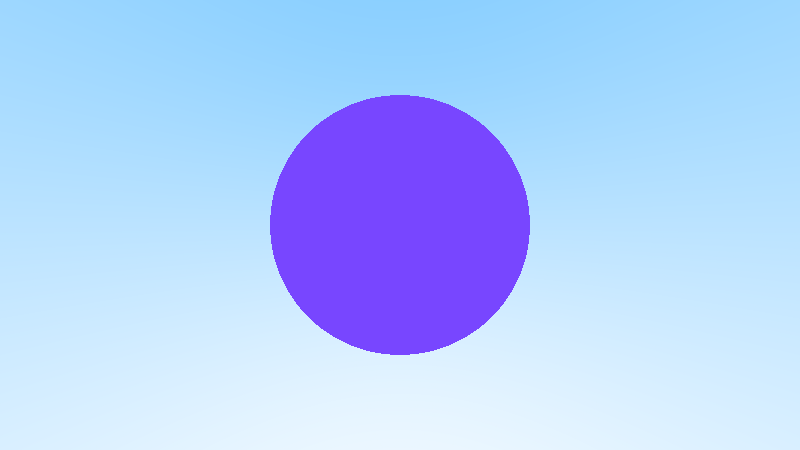
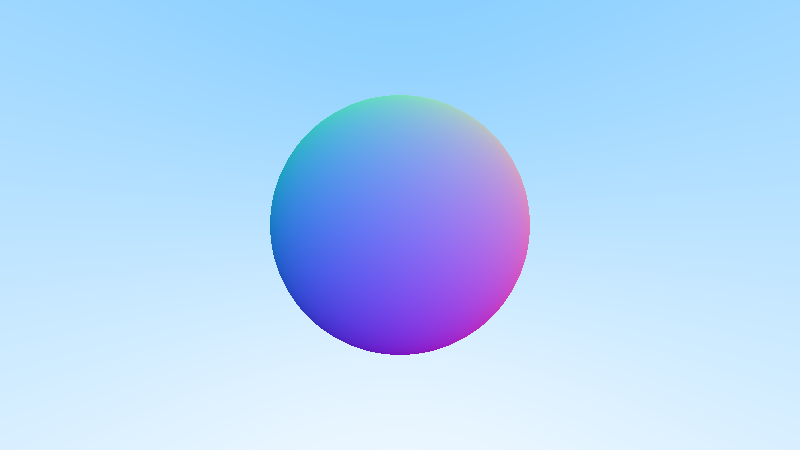
Hit record normal + starting on quad

Changed region(s): [[0.3125, 0.1867, 0.6875, 0.8089]]

diff --git a/src/shapes.rs b/src/shapes.rs
@@ -5,11 +5,12 @@ use crate::vector3::Vector3;
 pub struct HitRecord {
     pub t: f64,
     pub surface: Surface,
+    pub normal: Vector3,
 }
 
 impl HitRecord {
-    fn new(t: f64, surface: Surface) -> HitRecord {
-        HitRecord { t, surface }
+    fn new(t: f64, surface: Surface, normal: Vector3) -> HitRecord {
+        HitRecord { t, surface, normal }
     }
 }
 
@@ -60,15 +61,21 @@ impl Hittable for Sphere {
         let first_root = (-b - sqrt_d) / (2.0 * a);
         let second_root = (-b + sqrt_d) / (2.0 * a);
 
+        let solution: f64;
+
         if first_root < 0.0 && second_root < 0.0 {
-            None
+            return None;
         } else if first_root < 0.0 && second_root >= 0.0 {
-            Some(HitRecord::new(second_root, self.surface))
+            solution = second_root;
         } else if first_root >= 0.0 && second_root >= 0.0 {
-            Some(HitRecord::new(first_root, self.surface))
+            solution = first_root;
         } else {
-            None
+            return None;
         }
+
+        let normal = (ray.point_at(solution) - self.center).normalize();
+
+        Some(HitRecord::new(solution, self.surface, normal))
     }
 }
 
@@ -95,9 +102,9 @@ impl Quad {
     }
 }
 
-impl Hittable for Quad {
-    fn hit(&self, ray: &Ray) -> Option<HitRecord> {}
-}
+// impl Hittable for Quad {
+//     fn hit(&self, ray: &Ray) -> Option<HitRecord> {}
+// }
 
 #[cfg(test)]
 mod tests {
@@ -126,7 +133,8 @@ mod tests {
             sphere.hit(&ray),
             Some(HitRecord {
                 t: 4.0,
-                surface: Surface::default()
+                surface: Surface::default(),
+                normal: Vector3::new(0.0, 0.0, 1.0),
             })
         );
     }
@@ -140,7 +148,8 @@ mod tests {
             sphere.hit(&ray),
             Some(HitRecord {
                 t: 5.0,
-                surface: Surface::default()
+                surface: Surface::default(),
+                normal: Vector3::new(1.0, 0.0, 0.0)
             })
         );
     }
@@ -154,7 +163,8 @@ mod tests {
             sphere.hit(&ray),
             Some(HitRecord {
                 t: 6.0,
-                surface: Surface::default()
+                surface: Surface::default(),
+                normal: Vector3::new(0.0, 0.0, -1.0)
             })
         );
     }

diff --git a/src/camera.rs b/src/camera.rs
@@ -67,7 +67,7 @@ impl Camera {
             }
         });
         if let Some(record) = min_record {
-            record.surface.albedo
+            (record.normal + Vector3::new(1.0, 1.0, 1.0)) * 122.0
         } else {
             background_color
         }
